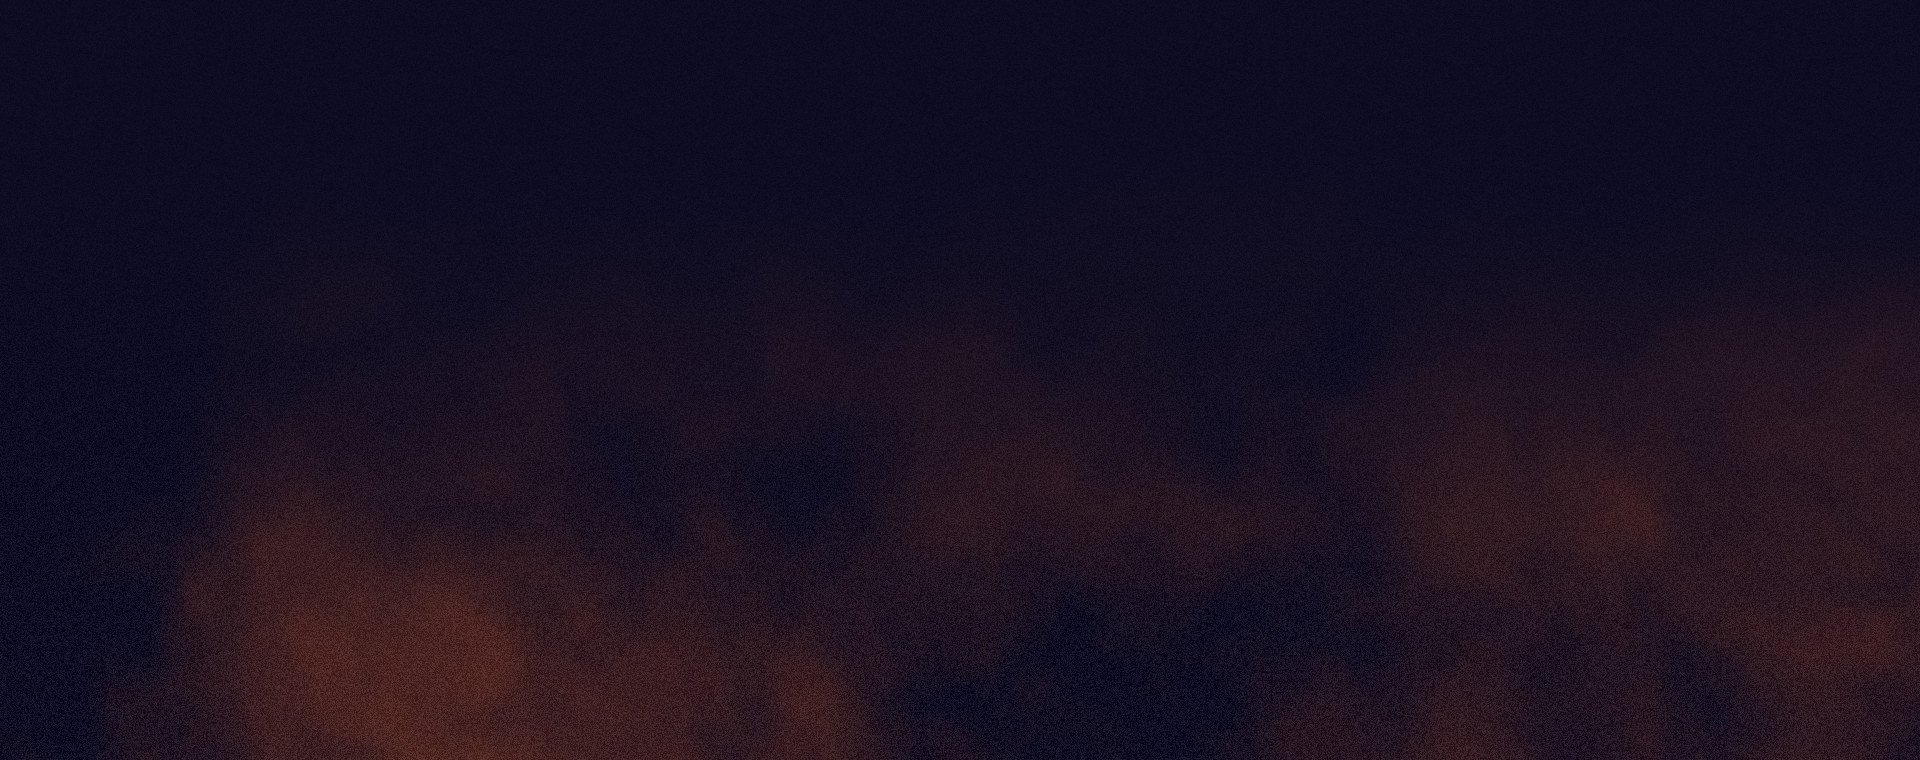
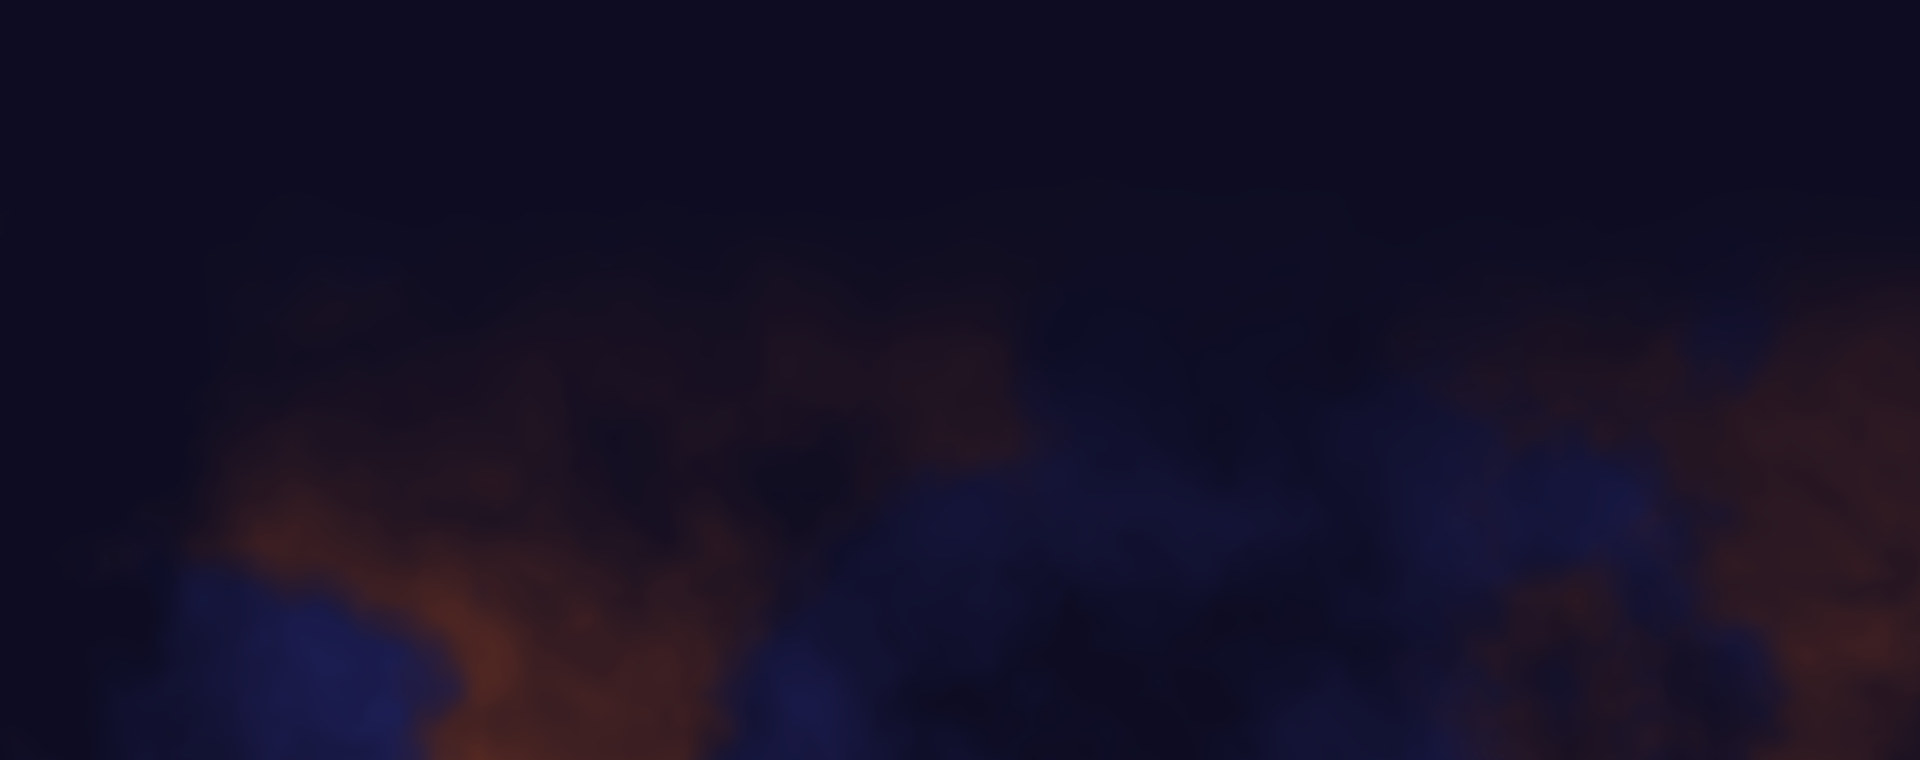
Overhaul fixes (#25)

Changed region(s): [[0.3438, 0.575, 0.6875, 1.0], [0.6562, 0.5447, 0.9375, 1.0], [0.0625, 0.7263, 0.25, 1.0]]

diff --git a/src/app/team/page.tsx b/src/app/team/page.tsx
@@ -1,8 +1,10 @@
 import type { Metadata } from "next";
 import Link from "next/link";
 
+import Figure from "@/components/Figure";
 import Name from "@/components/Name";
 import Opener from "@/components/Opener";
+import { photo } from "@/lib/photos";
 import { socialChannels } from "@/lib/site-content";
 
 export const metadata: Metadata = {
@@ -10,12 +12,15 @@ export const metadata: Metadata = {
   description: "Who whIRLwind is, how to join, and where to follow the team.",
 };
 
+// the lead photo: the team and its robots on the pitch in the lab
+const leadPhoto = photo("2026-06-LAB42/LAB42-172.jpg");
+
 export default function TeamPage() {
   return (
     <div className="page">
-      <section className="container opening" aria-label="Introduction">
+      <section className="container opening opening--split" aria-label="Introduction">
+        <h1 className="t-title">Team</h1>
         <div className="opening__text">
-          <h1 className="t-title">Team</h1>
           <p className="t-lede">
             <Name /> is a team of students from the University of Amsterdam dedicated to pushing the boundaries of robotics and AI, and one of the top teams in the RoboCup Humanoid Soccer League&apos;s middle-sized division. We program humanoid robots to compete in fully autonomous robot football competitions globally, with a history going back to 2008. As part of the Intelligent Robotics Lab (IRL) we publish novel research related to our progress, provide workshops for students, and participate in educational events or conferences. One goal at a time, we try to bring the world closer to the shared RoboCup goal of humanoid robots defeating the top football team in 2050!
           </p>
@@ -25,6 +30,13 @@ export default function TeamPage() {
             it.
           </p>
         </div>
+        <Figure
+          src={leadPhoto.src}
+          alt={leadPhoto.alt}
+          caption="Join the whIRLwind family! We are always looking for new members!"
+          sizes="(max-width: 64rem) 100vw, 30rem"
+          priority
+        />
       </section>
 
       <section className="container section" aria-labelledby="follow-heading">

diff --git a/src/components/NoiseFieldCanvas.tsx b/src/components/NoiseFieldCanvas.tsx
@@ -30,14 +30,17 @@ void main() {
   vec3 indigo = vec3(0.173, 0.188, 0.525);
   vec3 orange = vec3(0.949, 0.404, 0.133);
   vec2 q = vec2(uv.x * aspect * 2.2, uv.y * 2.2) + vec2(u_t * 0.09, -u_t * 0.035);
+  // the smoke: warped noise, denser towards the ground
   float n = fbm(q + 0.35 * fbm(q * 1.7 - u_t * 0.06));
   float ground = smoothstep(0.15, 0.95, uv.y);
-  n = (n - 0.42) * 1.6 * ground;
+  float d = clamp((n - 0.42) * 1.6 * ground, 0.0, 1.0);
+  // its colour: a second, slower field says where it is orange (0) and where indigo (1),
+  // about half each; indigo needs more weight than orange to show, most of all on the dark ground
+  float k = smoothstep(0.40, 0.56, fbm(q + vec2(-u_t * 0.03, u_t * 0.02) + 4.0));
+  float blue = mix(0.65, 0.9, step(0.5, u_dark));
   vec3 c = paper;
-  c = mix(c, orange, clamp(n, 0.0, 1.0) * 0.55);
-  c = mix(c, indigo, clamp(n - 0.55, 0.0, 1.0) * 0.9);
-  float g = hash(gl_FragCoord.xy + vec2(fract(u_t * 61.0) * 917.0, fract(u_t * 37.0) * 613.0)) - 0.5;
-  c = c + g * 0.09 * (0.35 + ground);
+  c = mix(c, orange, d * 0.55 * (1.0 - k));
+  c = mix(c, indigo, d * blue * k);
   gl_FragColor = vec4(c, 1.0);
 }`;
 

diff --git a/src/app/globals.css b/src/app/globals.css
@@ -309,6 +309,29 @@ button {
   object-position: center;
 }
 
+/* the split opening (team): the title runs across the top, then the text keeps
+   its seven-column reading measure and the photograph takes the five columns to
+   its right, at its native ratio; below the twelve-column breakpoint it stacks
+   under the text. The title is a direct child here, so the section owns the
+   title-to-text gap */
+.opening--split {
+  gap: var(--space-6);
+}
+
+@media (min-width: 64rem) {
+  .opening--split {
+    display: grid;
+    grid-template-columns: minmax(0, 7fr) minmax(0, 5fr);
+    column-gap: var(--space-6);
+    row-gap: var(--space-6);
+    align-items: start;
+  }
+
+  .opening--split > .t-title {
+    grid-column: 1 / -1;
+  }
+}
+
 /* ------------------------------------------------------------------ openers (renders in the page) */
 
 /* a heading band with a render standing on the rule underneath; --x says where along it */

diff --git a/src/components/NoiseField.tsx b/src/components/NoiseField.tsx
@@ -5,8 +5,8 @@ import fieldLight from "@/assets/artwork/field-light.jpg";
 
 import NoiseFieldCanvas from "./NoiseFieldCanvas";
 
-// The field under the landing lineup: slow noise and film grain in the brand
-// colours. A still frame of it (one per theme, from tools/artwork/field.py)
+// The field under the landing lineup: slow drifting smoke in orange and
+// indigo, no grain. A still frame of it (one per theme, from tools/artwork/field.py)
 // is always in the markup, so the view is complete before any script runs.
 // On top of it a WebGL canvas draws the moving version; without WebGL, or
 // with prefers-reduced-motion, the canvas is removed and the still stays.

diff --git a/tools/artwork/field.py b/tools/artwork/field.py
@@ -1,6 +1,6 @@
 #!/usr/bin/env python3
 """The still frames of the noise field under the home lineup, one per theme.
-Same maths as the WebGL shader in src/components/NoiseField.tsx at t = 7.
+Same maths as the WebGL shader in src/components/NoiseFieldCanvas.tsx at t = 7.
 usage: field.py [width] [height]   (default 1920 x 760) -> src/assets/artwork/field-{light,dark}.jpg"""
 
 import sys, numpy as np
@@ -45,20 +45,21 @@ ys, xs = np.mgrid[0:H, 0:W].astype(np.float64)
 uv = np.stack([(xs + 0.5) / W, (ys + 0.5) / H], -1)  # uv.y is 1 at the ground
 aspect = W / H
 q = np.stack([uv[..., 0] * aspect * 2.2 + T * 0.09, uv[..., 1] * 2.2 - T * 0.035], -1)
+# the smoke: warped noise, denser towards the ground
 n = fbm(q + 0.35 * fbm(q * 1.7 - T * 0.06)[..., None])
 g = np.clip((uv[..., 1] - 0.15) / 0.8, 0, 1)
 ground = g * g * (3 - 2 * g)
-n = (n - 0.42) * 1.6 * ground
+d = np.clip((n - 0.42) * 1.6 * ground, 0, 1)
+# its colour: a second, slower field says where it is orange (0) and where indigo (1),
+# about half each; indigo needs more weight than orange to show, most of all on the dark ground
+h = np.clip((fbm(q + [-T * 0.03, T * 0.02] + 4.0) - 0.40) / 0.16, 0, 1)
+k = h * h * (3 - 2 * h)
 orange = np.array([0.949, 0.404, 0.133])
 indigo = np.array([0.173, 0.188, 0.525])
-# grain: gl_FragCoord.y counts from the bottom
-frag = np.stack([xs + 0.5, (H - 1 - ys) + 0.5], -1)
-grain = hashv(frag + [np.mod(T * 61.0, 1) * 917.0, np.mod(T * 37.0, 1) * 613.0]) - 0.5
-for theme, paper in (("light", [0.980, 0.976, 0.965]), ("dark", [0.051, 0.047, 0.133])):
+for theme, paper, blue in (("light", [0.980, 0.976, 0.965], 0.65), ("dark", [0.051, 0.047, 0.133], 0.9)):
     c = np.broadcast_to(np.array(paper), (H, W, 3)).copy()
-    c = c + (orange - c) * (np.clip(n, 0, 1) * 0.55)[..., None]
-    c = c + (indigo - c) * (np.clip(n - 0.55, 0, 1) * 0.9)[..., None]
-    c = c + (grain * 0.09 * (0.35 + ground))[..., None]
+    c = c + (orange - c) * (d * 0.55 * (1 - k))[..., None]
+    c = c + (indigo - c) * (d * blue * k)[..., None]
     out = f"src/assets/artwork/field-{theme}.jpg"
     Image.fromarray((c.clip(0, 1) * 255).round().astype(np.uint8)).save(
         out, quality=88, subsampling=0, optimize=True

diff --git a/DESIGN.md b/DESIGN.md
@@ -139,7 +139,7 @@ Rules:
 
 Container: `min(72rem, 100% - 3rem)` centred. Twelve columns at 64rem and above, six from 40rem, four below. Column gutter is `--space-6` (1.5rem).
 
-Photographs may leave the container. A lead photograph is full-bleed or spans all twelve columns; its caption sits under it inside the text column, left aligned to the text.
+Photographs may leave the container. A lead photograph is full-bleed or spans all twelve columns; its caption sits under it inside the text column, left aligned to the text. Where a page opens with a paragraph or two of text rather than a title alone, the title may run across all twelve columns with the lead photograph taking the five columns to the right of the reading column under it (`.opening--split`), stacking under the text below 64rem.
 
 Text lives in a reading column of seven columns on desktop, starting at column one or column three, never centred. A caption or aside may use the remaining columns on the right.
 
@@ -281,7 +281,7 @@ Sponsors: title and one sentence saying what the sponsors do for us, with no lea
 
 ## 11. Motion and interaction
 
-The default is stillness. Nothing moves on scroll, nothing fades in, nothing lifts on hover, no parallax, no marquee, no counters. The transitions that exist are the 150ms link fill and the 250ms unfolding of the narrow-screen menu (the list grows from zero height while the three lines of its button turn into a cross), and all of them respect `prefers-reduced-motion`. The one animated surface on the site is the noise field under the home lineup (section 8): a WebGL shader, slow drifting noise and per-frame film grain in the brand colours. A still frame of the same field, one per theme (`src/assets/artwork/field-light.jpg` and `field-dark.jpg`, from `tools/artwork/field.py`), is always in the markup underneath it, so the view is complete before any script runs and stays complete without WebGL or under `prefers-reduced-motion`, when the canvas is removed. It stops drawing while off screen. No other shader, canvas or animation is added without a decision recorded here.
+The default is stillness. Nothing moves on scroll, nothing fades in, nothing lifts on hover, no parallax, no marquee, no counters. The transitions that exist are the 150ms link fill and the 250ms unfolding of the narrow-screen menu (the list grows from zero height while the three lines of its button turn into a cross), and all of them respect `prefers-reduced-motion`. The one animated surface on the site is the noise field under the home lineup (section 8): a WebGL shader, slow drifting smoke in orange and indigo, without grain (the per-frame film grain it first had read as static and was removed in September 2026). A still frame of the same field, one per theme (`src/assets/artwork/field-light.jpg` and `field-dark.jpg`, from `tools/artwork/field.py`), is always in the markup underneath it, so the view is complete before any script runs and stays complete without WebGL or under `prefers-reduced-motion`, when the canvas is removed. It stops drawing while off screen. No other shader, canvas or animation is added without a decision recorded here.
 
 Links are marker-pen links: at rest a 2px orange bar under the word, skewed at the wordmark's slant; on hover the bar rises to fill the word and the text turns indigo on orange. This is the `a` default in `brand.css`. Nav links show the bar only on the current page and fill on hover like any other link. Links inside running text (paragraphs, list items, table cells, season rows) flow inline so they wrap with the sentence; they carry the same bar and fill, drawn as backgrounds so every line fragment gets its own, with the fill cut at the same slant.
 
